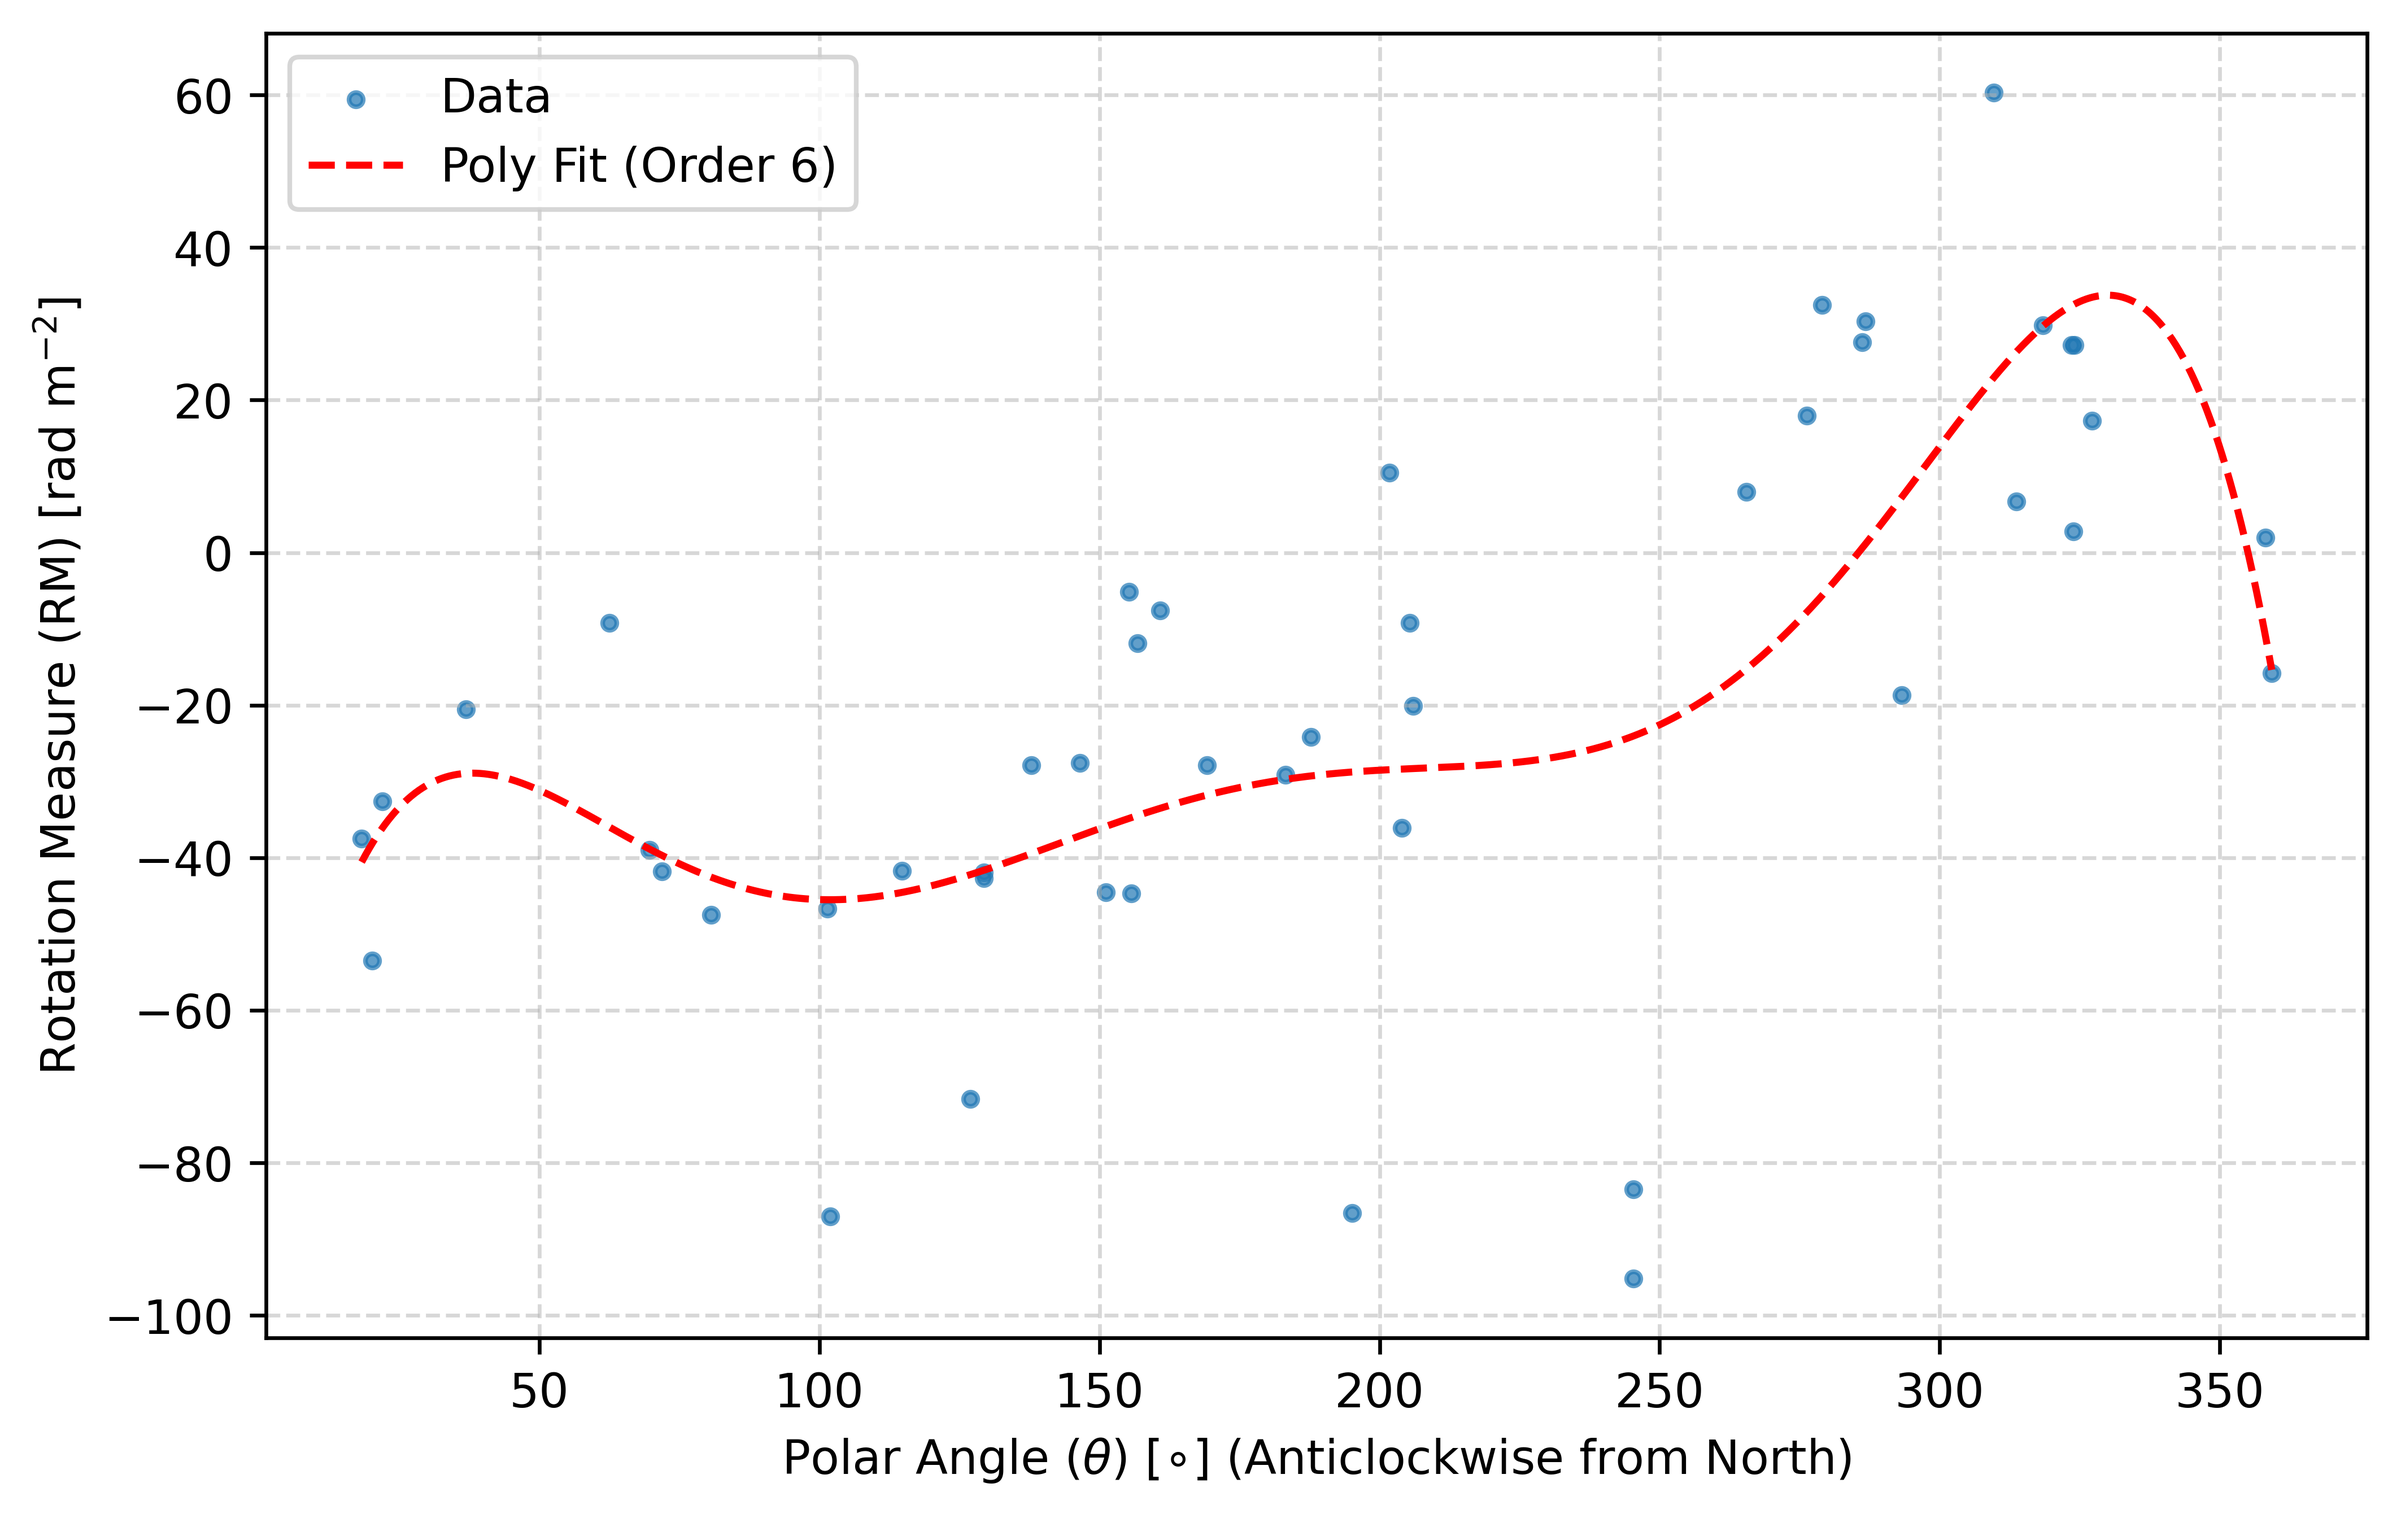
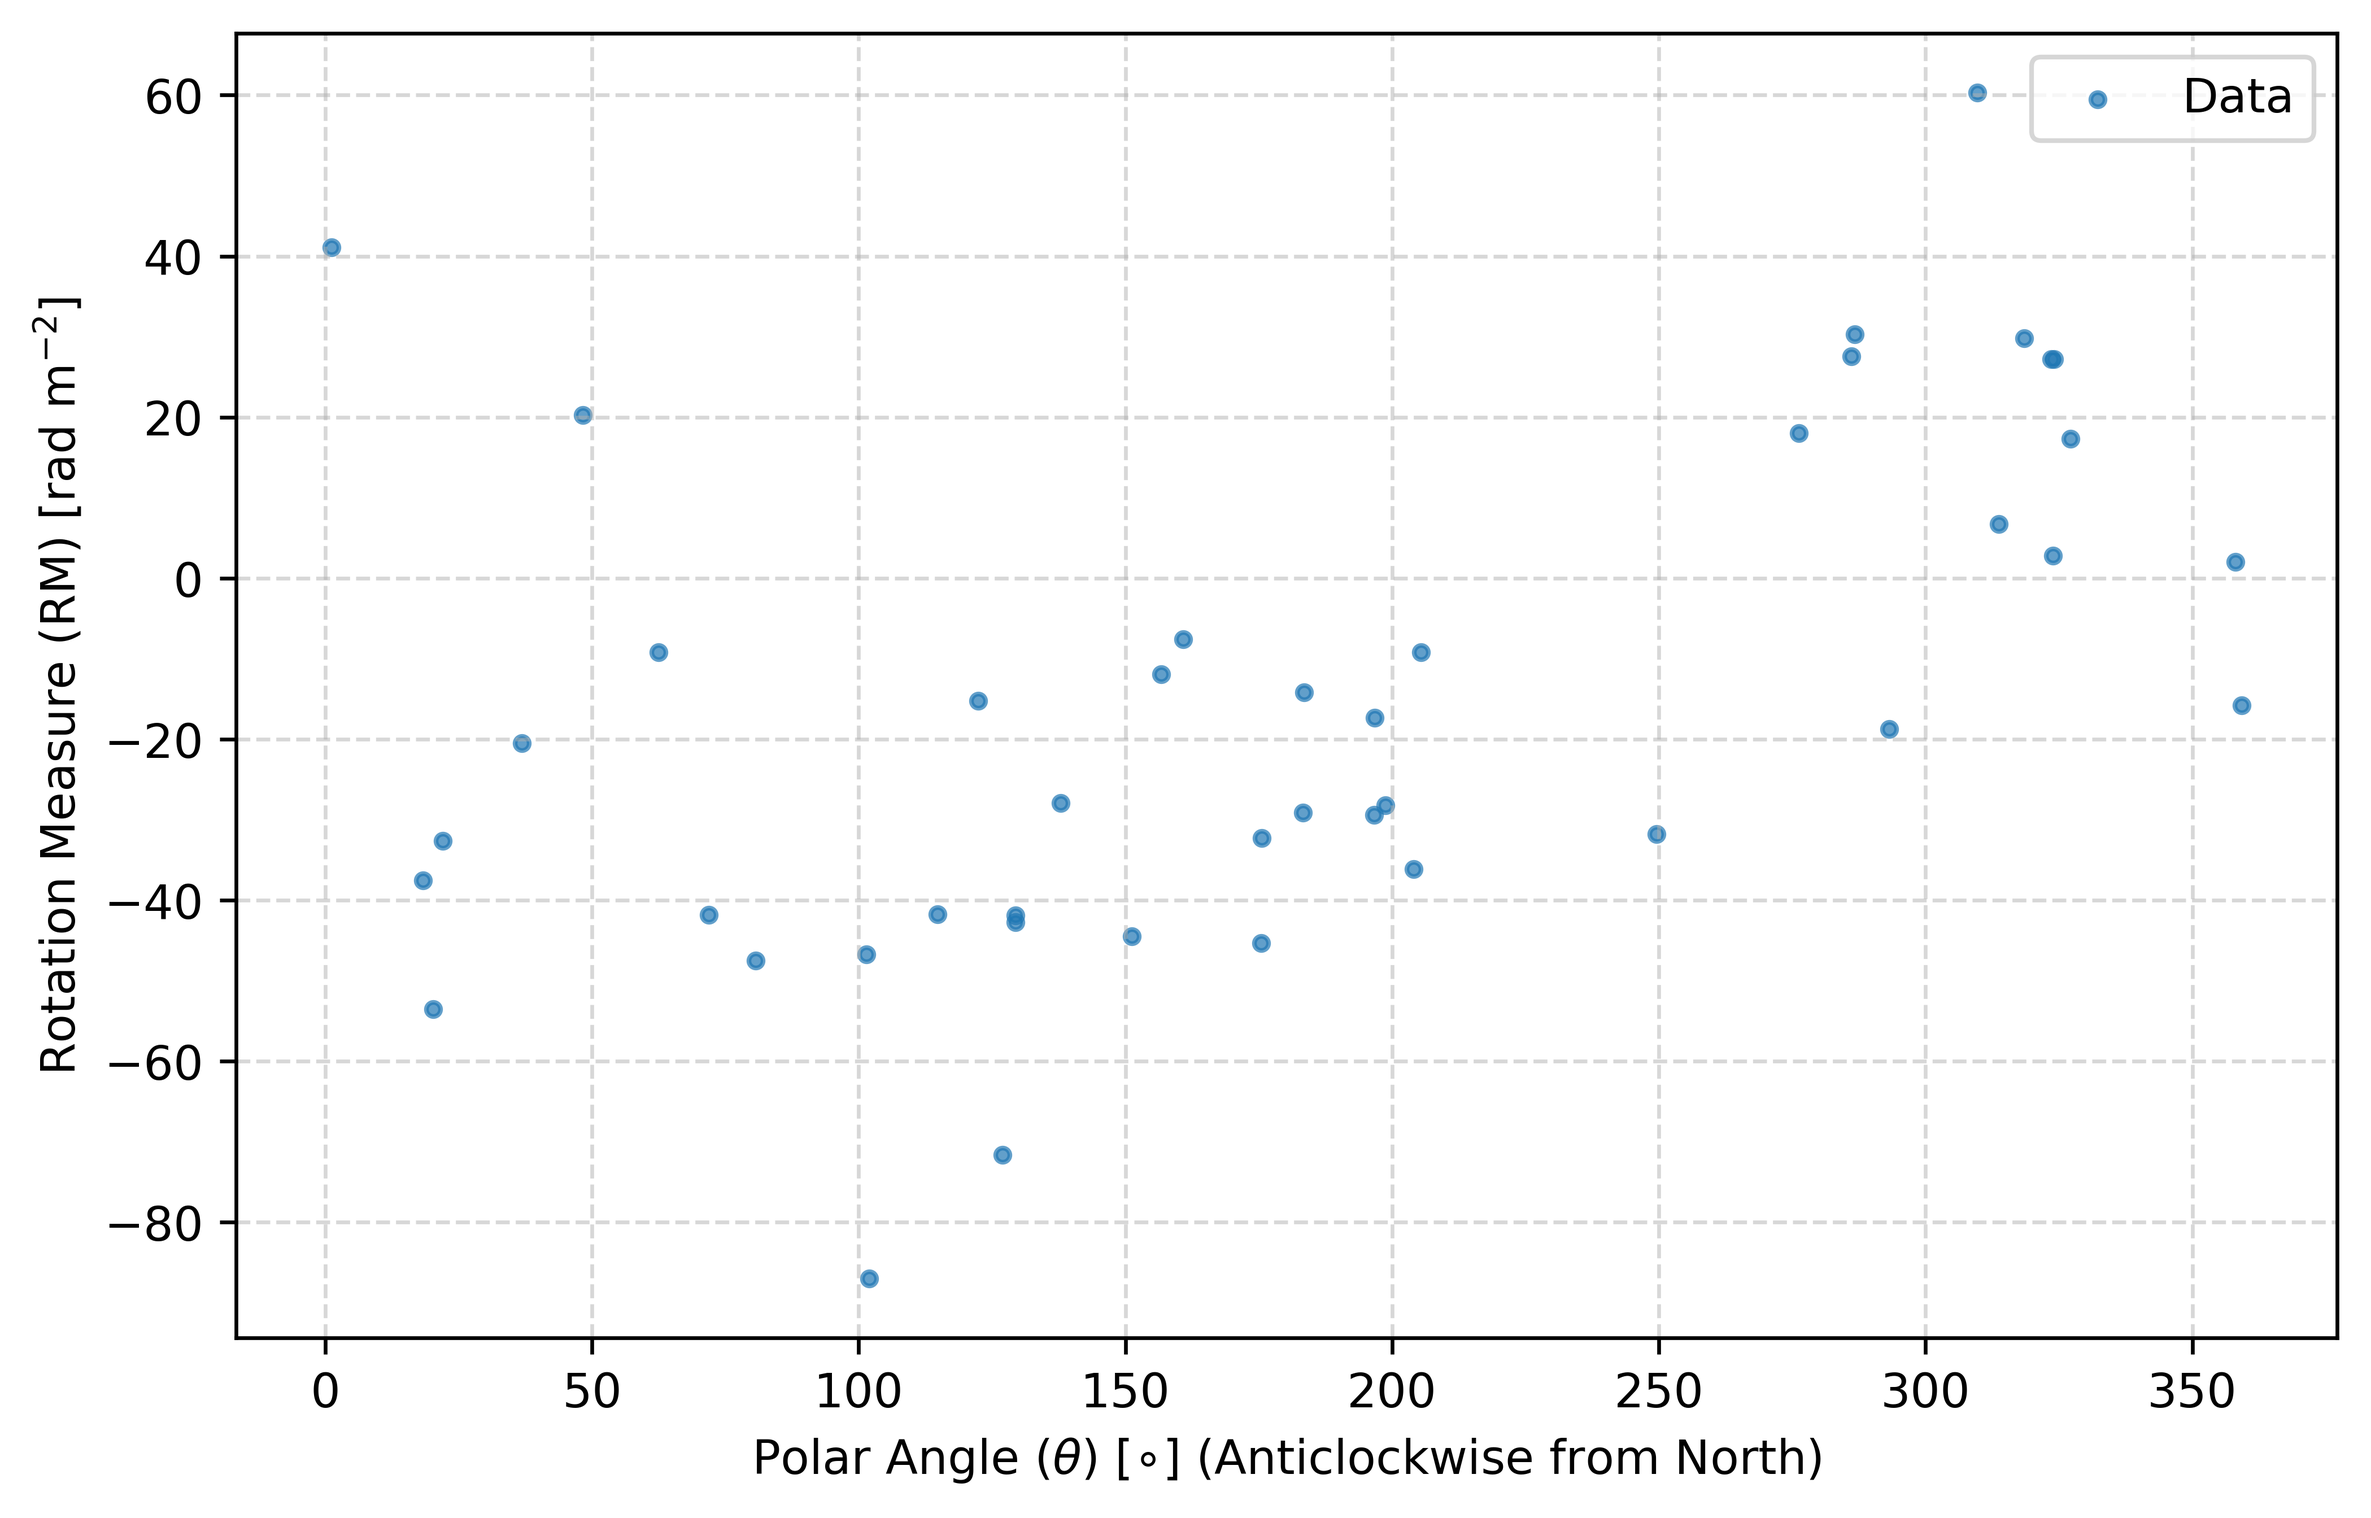
KS testing on average means and average medians of radnom patcehs vs mean and medians of M31's Halo (22 bins)

diff --git a/M31_signal_vs_entire_sky.py b/M31_signal_vs_entire_sky.py
@@ -828,17 +828,17 @@ def plot_rm_vs_polar_angle(PA, rm, bin_edges, save_plot=False, poly_order=6):
             plt.figure(figsize=(8, 5))
             plt.scatter(PA[bin_idx], rm[bin_idx], marker=".", alpha=0.7, label="Data")
 
-            # Fit a polynomial to the data
-            try:
-                coeffs = np.polyfit(PA[bin_idx], rm[bin_idx], poly_order)
-                poly_func = np.poly1d(coeffs)
+            # # Fit a polynomial to the data
+            # try:
+            #     coeffs = np.polyfit(PA[bin_idx], rm[bin_idx], poly_order)
+            #     poly_func = np.poly1d(coeffs)
 
-                x_fit = np.linspace(min(PA[bin_idx]), max(PA[bin_idx]), 1000)
-                y_fit = poly_func(x_fit)
+            #     x_fit = np.linspace(min(PA[bin_idx]), max(PA[bin_idx]), 1000)
+            #     y_fit = poly_func(x_fit)
 
-                plt.plot(x_fit, y_fit, color="red", linestyle="--", label=f"Poly Fit (Order {poly_order})")
-            except np.linalg.LinAlgError:
-                print(f"Polynomial fitting failed for bin {bin_idx}")
+            #     plt.plot(x_fit, y_fit, color="red", linestyle="--", label=f"Poly Fit (Order {poly_order})")
+            # except np.linalg.LinAlgError:
+            #     print(f"Polynomial fitting failed for bin {bin_idx}")
 
             # Labels and formatting
             plt.xlabel("Polar Angle " r"$(\theta)$ [$\circ$] " + "(Anticlockwise from North)")
@@ -1112,8 +1112,9 @@ def ks_test_random_vs_region(random_samples, region_sample, one_dim = True, save
     name = kwargs["name" ]if "name" in kwargs else "" #Handling the names parametre
 
     #Converting to 1D
-    if one_dim:
-        random_samples = np.concatenate(random_samples)#Falttening Sublists
+    if len(np.asarray(random_samples).shape) > 1: #checking if its not already in one dimension
+        if one_dim:
+            random_samples = np.concatenate(random_samples)#Falttening Sublists
     region_sample = np.array(region_sample).flatten()#Ensuring its 1D for single m31 region
 
     #Checking shapes (making sure theyre all 1D)
@@ -1123,9 +1124,10 @@ def ks_test_random_vs_region(random_samples, region_sample, one_dim = True, save
 
     #Performing the Test
     if one_dim:
-        ks_stat, p_value = stats.ks_2samp(random_samples, region_sample, nan_policy='omit')
+        ks_stat, p_value = stats.ks_2samp(random_samples, region_sample)#, nan_policy='omit')
     else:
-        ks_stat, p_value = stats.ks_2samp(random_samples, region_sample, nan_policy='omit', 
+        ks_stat, p_value = stats.ks_2samp(random_samples, region_sample,
+                                          #nan_policy='omit', 
                                           axis=1 #broadcasting region_sample across all sublists of random_samples (or radnom patches) 
                                           )
         
@@ -1176,7 +1178,6 @@ def ks_test_random_vs_region(random_samples, region_sample, one_dim = True, save
             print(f"P_values per patch has been saved to {path}")
         else:
             plt.show()
-
 
 """
 Note that it might take too long to fit patches that dont overlap each other 
@@ -1355,11 +1356,15 @@ if __name__ == "__main__": #continue (this makes it easier to excecute "M31_sign
         m31_distances = tuple(map(get_projected_d, m31_sep_Rvir, [d_m31]*len(m31_sep_Rvir))) #from seprated distance in degrees - within CGM of M31 - to kpc
         m31_distances = list(map(lambda m31_d: m31_d.value, m31_distances))
         PA_rm_deg = PA_rm_rad.to(u.deg).value %360 #Converting from radians to degrees
-        [PA_per_annulus, rm_per_annulus], annul_area, bin_edges = create_annuli_binning_structure(bin_data=m31_distances, data=(PA_rm_deg, rm_m31), bin_num=bin_num_from_main+1)
+        [PA_per_annulus, rm_per_annulus], annul_area, bin_edges = create_annuli_binning_structure(bin_data=m31_distances, data=(PA_rm_deg, rm_m31), bin_num=bin_num_from_main+2)
         plot_rm_vs_polar_angle(PA_per_annulus, rm_per_annulus, bin_edges, save_plot=True)
 
     if args.m31_ks_test:
 
+        print("=" * 50)
+        print(f"  Kolmogorov-Smirnov Test Results")
+        print("=" * 50)
+ 
         # Converting Radial separation from relative patch to projected distance to be used for BG correction
         projected_distances = [
             [get_projected_d(val, d_m31) for val in sublist] 
@@ -1371,22 +1376,25 @@ if __name__ == "__main__": #continue (this makes it easier to excecute "M31_sign
             for RM_patch, proj_d_patch in zip(RM_values_per_patch, projected_distances)
         ]
 
-
-        print("=" * 50)
-        print(f"  Kolmogorov-Smirnov Test Results")
-        print("=" * 50)
-
+        # print("-" * 50)
+        # print(f"Raw RM values from all {number_of_patches} patches")
+        # ks_test_random_vs_region(RM_values_per_patch_corr, rm_m31)
+        
         print("-" * 50)
-        print(f"Raw RM values from all {number_of_patches} patches")
-        ks_test_random_vs_region(RM_values_per_patch_corr, rm_m31)
-
+        print(f"Mean RM of M31 with mean RM of sky relative to {BINS} bins")
+        ks_test_random_vs_region(Avg_means, bin_means_m31)
+        
         print("-" * 50)
-        print(f"Mean RM from {number_of_patches} Patches")
-        ks_test_random_vs_region(all_means_corr, rm_m31, save_plot=True, one_dim=False, name="mean")
+        print(f"Median RM of M31 with median RM of sky relative to {BINS} bins")
+        ks_test_random_vs_region(Avg_medians, bin_med_m31)
+        
+        # print("-" * 50)
+        # print(f"Mean RM from {number_of_patches} Patches")
+        # ks_test_random_vs_region(all_means_corr, rm_m31, save_plot=True, one_dim=False, name="mean")
 
-        print(f"Median RM from {number_of_patches} Patches")
-        ks_test_random_vs_region(all_medians_corr, rm_m31, save_plot=True, one_dim=False, name="median")
-        print("-" * 50)
+        # print(f"Median RM from {number_of_patches} Patches")
+        # ks_test_random_vs_region(all_medians_corr, rm_m31, save_plot=True, one_dim=False, name="median")
+        # print("-" * 50)
 
 
 
